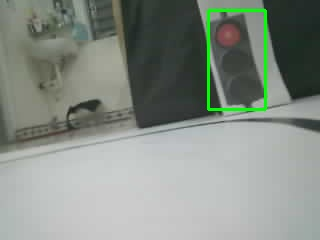
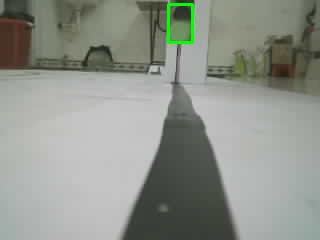
fix: update UI and improve the quality of the green light

diff --git a/Traffic-Light-Detection-using-YOLOv8-main/Traffic-Light-Detection-using-YOLOv8-main/detect.py b/Traffic-Light-Detection-using-YOLOv8-main/Traffic-Light-Detection-using-YOLOv8-main/detect.py
@@ -134,8 +134,8 @@ def classify_light_color(roi: np.ndarray) -> str:
     )
 
     # ── XANH LÁ ─────────────────────────────────────────
-    green_lo = np.array([35, 40, 40])
-    green_hi = np.array([95, 255, 255])
+    green_lo = np.array([30, 15, 120])   # S thấp hơn, V cao (vì đang chói sáng)
+    green_hi = np.array([100, 255, 255])
     green_mask = cv2.inRange(hsv, green_lo, green_hi)
 
     # ── VÀNG (bổ sung để không nhầm đỏ/xanh) ───────────
